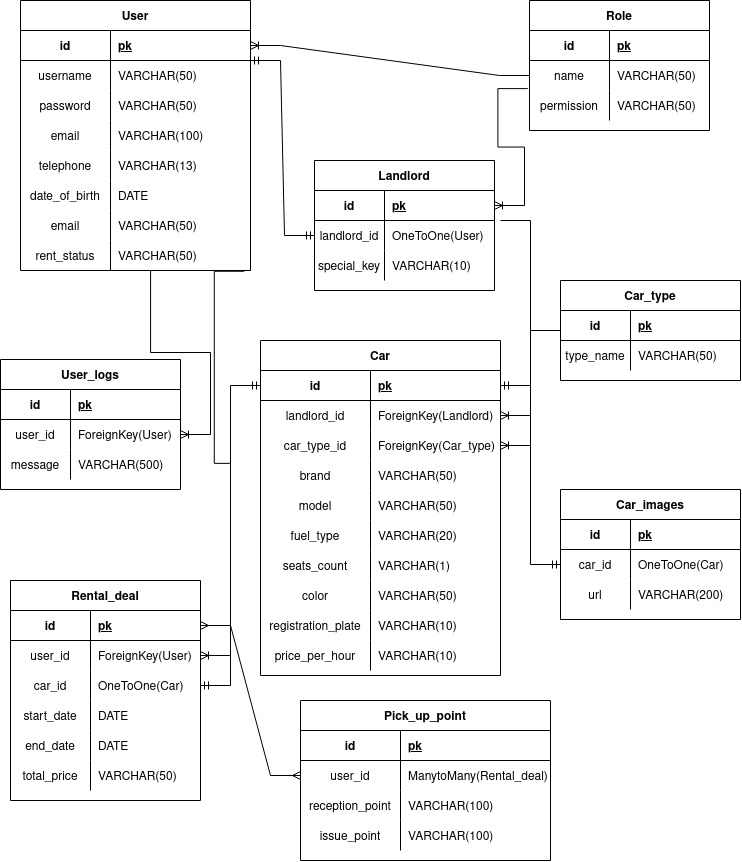
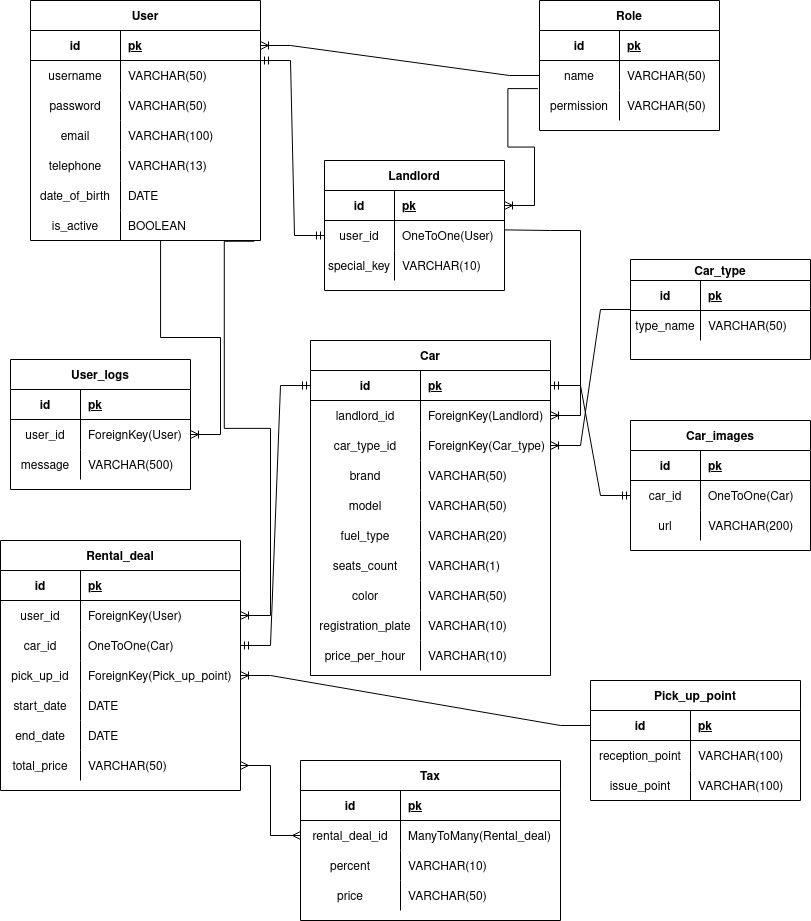
Added new Tax entity

diff --git a/lab_1/entities.md b/lab_1/entities.md
@@ -13,8 +13,7 @@ ___
 |email|VARCHAR(100)|not null; unique|почта|
 |telephone|VARCHAR(13)|blank=True; unique|номер телефона|
 |date_of_birth|DATE|not null|дата рождения|
-|rental_deal_id|ForeignKey(Rental_deal)|blank=True|текущая аренда|
-|rent_status|VARCHAR(50)|not null; default(not active)|статус аренды|
+|rent_status|BOOLEAN|not null; default(False)|статус аренды|
 
 
 ## Landlord (Арендодатель)
@@ -23,8 +22,7 @@ ___
 |:------:|:-:|:----------:|:-------:|
 |id|pk|auto increment; not null; unique|первичный ключ|
 |landlord_id|OneToOne(User)|not null|id арендодателя|
-|private_key|VARCHAR(10)|not null|приватный ключ|
-|car_id|ForeignKey(Car)|blank=True|автомобили для аренды|
+|special_key|VARCHAR(10)|not null|спец. ключ арендодателя|
 
 
 ## Role (роль пользователя)
@@ -42,7 +40,6 @@ ___
 |:------:|:-:|:---------:|:------:|
 |id|pk|auto increment; not null; unique|первичный ключ|
 |type_name|VARCHAR(50)|not null|название типа транспорта|
-|car_id|ForeignKey(Car)|not null|автомобиль|
 
 
 ## Car (Автомобиль)
@@ -50,6 +47,8 @@ ___
 |имя поля|тип|ограничения|описание|
 |:------:|:-:|:---------:|:------:|
 |id|pk|auto increment; not null; unique|первичный ключ|
+|landlord_id|ForeignKey(Landlord)|not null|id арендодателя|
+|car_type_id|ForeignKey(Car_type)|not null|id типа транспорта|
 |brand|VARCHAR(50)|not null|марка|
 |model|VARCHAR(50)|not null|модель|
 |fuel_type|VARCHAR(20)|blank=True|тип топлива|
@@ -73,9 +72,11 @@ ___
 |имя поля|тип|ограничения|описание|
 |:------:|:-:|:----------:|:-------:|
 |id|pk|auto increment; not null; unique|первичный ключ|
+|user_id|ForeignKey(User)|not null|id пользователя|
 |car_id|OneToOne(Car)|not null; unique|арендованный автомобиль|
+|pick_up_id|ForeignKey(Pick_up_point)|not null|id пункта приема-выдачи|
 |start_date|DATE|not null|дата начала аренды|
-|start_date|DATE|not null|дата конца аренды|
+|end_date|DATE|not null|дата конца аренды|
 |total_price|VARCHAR(50)|not null|цена за аренду|
 
 
@@ -84,9 +85,8 @@ ___
 |имя поля|тип|ограничения|описание|
 |:------:|:-:|:----------:|:-------:|
 |id|pk|auto increment; not null; unique|первичный ключ|
-|user_id|ManytoMany(Rental_deal)|not null|арендная сделка|
 |reception_point|VARCHAR(100)|not null|пункт приема|
-|issue_point|VARCHAR(100)|not null|пункт выдачи|
+|issue_point|VARCHAR(100)|blank=True|пункт выдачи|
 
 
 ## User_logs (Логи)
@@ -94,5 +94,15 @@ ___
 |имя поля|тип|ограничения|описание|
 |:------:|:-:|:----------:|:-------:|
 |id|pk|auto increment; not null; unique|первичный ключ|
-|user_id|ForeignKey(User)|not null|пользователь|
+|user_id|ForeignKey(User)|not null|id пользователя|
 |message|VARCHAR(500)|not null|логи событий|
+
+
+## Tax (Налог)
+___
+|имя поля|тип|ограничения|описание|
+|:------:|:-:|:----------:|:-------:|
+|id|pk|auto increment; not null; unique|первичный ключ|
+|rental_deal_id|ManyToMany(Rental_deal)|not null|id арендной сделки|
+|percent|VARCHAR(10)|not null|процент налога от стоимости аренды|
+|price|VARCHAR(50)|not null|стоимость налога|

diff --git a/lab_1/requirements.md b/lab_1/requirements.md
@@ -20,6 +20,7 @@ ___
 * Rental_deal (Арендная сделка)
 * Pick_up_point (пункт приема-выдачи)
 * User_logs (Логи)
+* Tax (Налог)
 
 
 ## Система ролей: 
@@ -46,6 +47,6 @@ ___
 * Моб.телефон
 * Полную дату рождения
 
-При желании авторизированный пользователь может стать полноценным арендодателем. Ему нужно пройти дополнительную регистрацию с получением(генерацией) приватного ключа из 10-ти символов. После этого ему добавляется функция по добавлению собственных автомобилей для аренды.
+При желании авторизированный пользователь может стать полноценным арендодателем. Ему нужно пройти дополнительную регистрацию с получением(генерацией) спец. ключа из 10-ти символов. После этого ему добавляется функция по добавлению собственных автомобилей для аренды.
 
 Авторизация происходит при помощи названия аккаунта и пароля.
